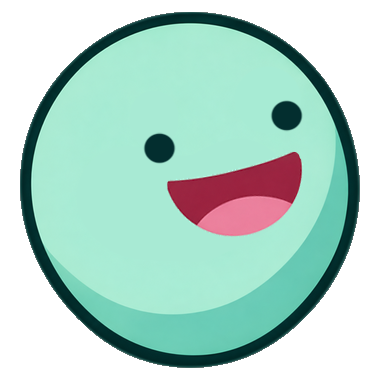
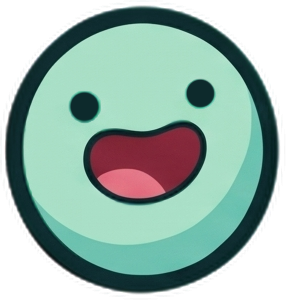
Minion swarm: eating sprite sheet, foldable asset groups, minion art lv1-6, source PSD, .gitignore

diff --git a/minion-swarm/game.js b/minion-swarm/game.js
@@ -6,7 +6,7 @@
 
 // Build number, shown in the corner. Bump it together with the ?v= in
 // index.html on every push so phones load the new version.
-const BUILD = 23;
+const BUILD = 24;
 
 // ---- Tunable values (all in one place) ------------------------------------
 
@@ -77,6 +77,13 @@ const CONFIG = {
 
   // Two legs behind the body. Each swings from its top (the hip) while the
   // minion walks, opposite to the other; they ease back to straight when it stops.
+  // Eating animation while a minion hits a resource: loops the sprite sheet
+  // minion_eat (one row of square frames). With no sheet, the normal sprite is used.
+  eat: {
+    show: true,
+    fps: 8,                 // frames per second
+  },
+
   legs: {
     show: true,
     angle: 25,              // max swing in degrees each side
@@ -181,6 +188,8 @@ const CONFIG_HELP = {
   'bounce.fade': 'How quickly the bounce fades in when a minion starts moving and out when it stops.',
   'wobble.show': 'While walking, minions rock left and right from the bottom center of their sprite, on top of the bounce.',
   'wobble.angle': 'How far a minion tilts to each side while walking, in degrees.',
+  'eat.show': 'While hitting a resource, minions loop the eating sprite sheet you load in 🎨 (under Minion level 1 → Eating): one row of square frames, the frame count is worked out from its width. With no sheet loaded, they keep their normal sprite.',
+  'eat.fps': 'Speed of the eating animation, in frames per second.',
   'legs.show': 'Draw two legs behind each minion. They swing from the hip while walking and ease back to straight when it stops.',
   'legs.angle': 'How far each leg swings forward and back while walking, in degrees.',
   'legs.perBounce': 'Leg swing cycles per bounce. 0.5 = each bounce is one step (left leg, then right leg).',
@@ -336,7 +345,7 @@ function spawn(level, x, y) {
   const r = Math.random() * CONFIG.formationRadius;
   return {
     level, type: statsFor(level), x, y, vx: 0, vy: 0, cd: 0, target: null,
-    attacking: false, face: 1, bounceAmp: 0, bouncePhase: Math.random() * Math.PI * 2,
+    attacking: false, eatT: 0, face: 1, bounceAmp: 0, bouncePhase: Math.random() * Math.PI * 2,
     bounceRand: Math.random() * 2 - 1, // this minion's own rhythm offset
     ox: Math.cos(a) * r, oy: Math.sin(a) * r, // resting spot around the leader
   };
@@ -446,6 +455,9 @@ function updateMinion(m, dt, attackers) {
   m.bounceAmp += ((bouncing ? 1 : 0) - m.bounceAmp) * Math.min(1, b.fade * dt);
   const rhythm = 1 + m.bounceRand * b.variation;
   if (b.stepLength > 0) m.bouncePhase += (speedNow * dt * rhythm / b.stepLength) * Math.PI * 2;
+
+  // Eating animation clock: runs while hitting, restarts from frame 1 each time.
+  m.eatT = m.attacking ? (m.eatT || 0) + dt : 0;
 
   // Attack when touching the resource.
   if (m.attacking) {
@@ -676,6 +688,19 @@ canvas.addEventListener('pointerdown', (e) => {
 
 const BACKGROUND_COLOR = '#1f3a24';
 const MINION_ART_LEVELS = 8; // minion_lv1..lv8; higher levels reuse them in a cycle
+// Eating sprite sheet: one horizontal strip of square frames. The number of
+// frames is width ÷ height (512×128 = 4 frames, 768×128 = 6…).
+// Returns the frame to draw { img, sx, sw, sh }, or null for the normal sprite.
+function eatFrame(m) {
+  if (!CONFIG.eat.show || !m.attacking) return null;
+  const sheet = art('minion_eat');
+  if (!sheet) return null;
+  const sh = sheet.naturalHeight;
+  const count = Math.max(1, Math.round(sheet.naturalWidth / sh));
+  const sw = sheet.naturalWidth / count;
+  const i = Math.floor(m.eatT * Math.max(0.1, CONFIG.eat.fps)) % count;
+  return { img: sheet, sx: i * sw, sw, sh };
+}
 
 const gameFont = () => (window.AssetPanel ? AssetPanel.fontStack : 'system-ui, sans-serif');
 
@@ -771,6 +796,14 @@ const ASSETS = [
       if (level > 1) drawLevelNumber(c, w * 0.38, level);
     },
   })),
+  { key: 'minion_eat', label: 'Minion eating (sprite sheet)', parent: 'minion_lv1', group: 'Eating',
+    size: 'one row of square frames, e.g. 512×128 = 4 frames; same framing as minion_lv1 (optional)',
+    draw: (c, w, h) => {
+      // Placeholder thumbnail only; with no sheet the game keeps the normal sprite.
+      c.globalAlpha = 0.35;
+      c.translate(w / 2, h / 2);
+      drawMinionShape(c, w * 0.38, CONFIG.minion.colors[0]);
+    } },
   { key: 'minion_leg', label: 'Minion leg', size: '32×64 (transparent, top center = hip)',
     draw: (c, w, h) => { c.translate(w / 2, 0); drawLegShape(c, w * 0.5, h, CONFIG.legs.color); } },
   { key: 'minion_shadow', label: 'Minion shadow', size: '128×128 (transparent, drawn see-through by shadow.opacity)',
@@ -830,7 +863,8 @@ function draw() {
   for (const m of state.minions) {
     // Squash & stretch: wider when flatter, taller when narrower.
     const k = CONFIG.bounce.amount * m.bounceAmp * Math.sin(m.bouncePhase);
-    const img = art(minionArtKey(m.level));
+    const eat = eatFrame(m);
+    const img = eat ? null : art(minionArtKey(m.level));
     const rad = m.type.radius;
     ctx.save();
     // Wobble: tilt around the bottom center of the sprite.
@@ -847,7 +881,8 @@ function draw() {
     const fc = CONFIG.facing;
     const mirror = fc.flip && m.face !== (fc.artFacesRight ? 1 : -1);
     if (mirror) { ctx.save(); ctx.scale(-1, 1); }
-    if (img) ctx.drawImage(img, -rad, -rad, rad * 2, rad * 2);
+    if (eat) ctx.drawImage(eat.img, eat.sx, 0, eat.sw, eat.sh, -rad, -rad, rad * 2, rad * 2);
+    else if (img) ctx.drawImage(img, -rad, -rad, rad * 2, rad * 2);
     else drawMinionShape(ctx, rad, m.type.color);
     if (mirror) ctx.restore();
     if (CONFIG.minion.showLevel && m.level > 1) drawLevelNumber(ctx, rad, m.level);

diff --git a/shared/asset-panel.js b/shared/asset-panel.js
@@ -11,7 +11,9 @@
 // Usage:
 //   AssetPanel.init({ storageKey, basePath: 'assets/', mount, uploadUrl,
 //     onToggle, onFontChange, font: { family, fallback },
-//     images: [{ key, label, size, draw(ctx, w, h) }] });
+//     images: [{ key, label, size, draw(ctx, w, h), parent?, group? }] });
+//     (parent: key of the image this one is listed under, folded behind a
+//      "▸ <group>" toggle on that image's row)
 //   AssetPanel.image(key)   // loaded <img> or null (then draw the shape)
 //   AssetPanel.fontStack    // CSS font-family to use
 
@@ -105,6 +107,9 @@
     .ap-head button { background: transparent; border: 0; color: #fff; font-size: 20px; cursor: pointer; padding: 0 4px; }
     .ap-body { overflow-y: auto; padding: 0 16px 8px; }
     .ap-row { display: flex; gap: 12px; align-items: center; padding: 10px 0; border-bottom: 1px solid #2a3a2e; }
+    .ap-row.ap-sub { padding-left: 20px; background: rgba(0,0,0,0.15); }
+    .ap-row.ap-sub .ap-thumb { width: 44px; height: 44px; }
+    .ap-actions .ap-group { background: #24382b; color: #cfe8d4; }
     .ap-thumb { width: 56px; height: 56px; flex: none; border-radius: 8px; display: flex; align-items: center; justify-content: center;
       background: repeating-conic-gradient(#2a3a2e 0% 25%, #223026 0% 50%) 50% / 12px 12px; overflow: hidden; }
     .ap-thumb img, .ap-thumb canvas { max-width: 100%; max-height: 100%; }
@@ -257,9 +262,9 @@
       return label;
     }
 
-    function row(thumb, title, fileName, source, details, actions) {
+    function row(thumb, title, fileName, source, details, actions, sub) {
       const r = document.createElement('div');
-      r.className = 'ap-row';
+      r.className = sub ? 'ap-row ap-sub' : 'ap-row';
       const t = document.createElement('div');
       t.className = 'ap-thumb';
       t.appendChild(thumb);
@@ -280,10 +285,38 @@
       body.appendChild(r);
     }
 
+    // Images with a `parent` key are listed under that image, folded away
+    // behind a toggle button (label from their `group`).
+    const expanded = new Set();
+
     function render() {
+      const scroll = body.scrollTop; // keep the list where it was (toggles, replaces)
       body.innerHTML = '';
 
       for (const a of images) {
+        if (a.parent && entries[a.parent]) continue; // drawn under its parent
+        const children = images.filter((c) => c.parent === a.key);
+        const extra = [];
+        if (children.length) {
+          const open = expanded.has(a.key);
+          const loaded = children.filter((c) => entries[c.key].img).length;
+          const b = actionButton(`${open ? '▾' : '▸'} ${children[0].group || 'More'} (${loaded}/${children.length})`, () => {
+            if (expanded.has(a.key)) expanded.delete(a.key); else expanded.add(a.key);
+            render();
+          });
+          b.className = 'ap-group';
+          extra.push(b);
+        }
+        imageRow(a, extra, false);
+        if (children.length && expanded.has(a.key)) for (const c of children) imageRow(c, [], true);
+      }
+
+      fontRow();
+      body.scrollTop = scroll;
+    }
+
+    function imageRow(a, extra, sub) {
+      {
         const e = entries[a.key];
         let thumb;
         if (e.img) {
@@ -316,9 +349,12 @@
             render();
           }));
         }
-        row(thumb, a.label, e.blob ? `${a.key}.${imageExt(e)}` : `${a.key}.webp / .png`, e.source, details, actions);
+        actions.push(...extra);
+        row(thumb, a.label, e.blob ? `${a.key}.${imageExt(e)}` : `${a.key}.webp / .png`, e.source, details, actions, sub);
       }
+    }
 
+    function fontRow() {
       if (font) {
         const sample = document.createElement('div');
         sample.className = 'ap-font-sample';

diff --git a/minion-swarm/index.html b/minion-swarm/index.html
@@ -29,8 +29,8 @@
     <button id="hire">Hire minion</button>
     <button id="merge">Merge</button>
   </div>
-  <script src="../shared/settings-panel.js?v=23"></script>
-  <script src="../shared/asset-panel.js?v=23"></script>
-  <script src="game.js?v=23"></script>
+  <script src="../shared/settings-panel.js?v=24"></script>
+  <script src="../shared/asset-panel.js?v=24"></script>
+  <script src="game.js?v=24"></script>
 </body>
 </html>

diff --git a/minion-swarm/assets/README.md b/minion-swarm/assets/README.md
@@ -7,6 +7,7 @@ game's built-in drawn shape (or the default font), so the game never breaks.
 | --- | --- | --- |
 | `background.webp` / `.png` | Play area background (stretched to fill) | 720×1120 |
 | `minion_lv1.webp` … `minion_lv8.webp` (or `.png`) | Minion art per merge level (levels above 8 reuse them in a cycle) | 128×128, transparent |
+| `minion_eat.webp` / `.png` | Eating animation sprite sheet, looped while a minion hits a resource: one row of square frames, frame count = width ÷ height. None = normal sprite | e.g. 512×128 (4 frames), same framing as `minion_lv1` |
 | `minion_leg.webp` / `.png` | One leg, used for both (top center of the image is the hip it swings from) | 32×64, transparent |
 | `minion_shadow.webp` / `.png` | Shadow under every minion (drawn see-through, set darkness with `shadow.opacity`) | 128×128, transparent |
 | `resource_small.webp` / `.png` | Small resource (bush) | 64×64 |
